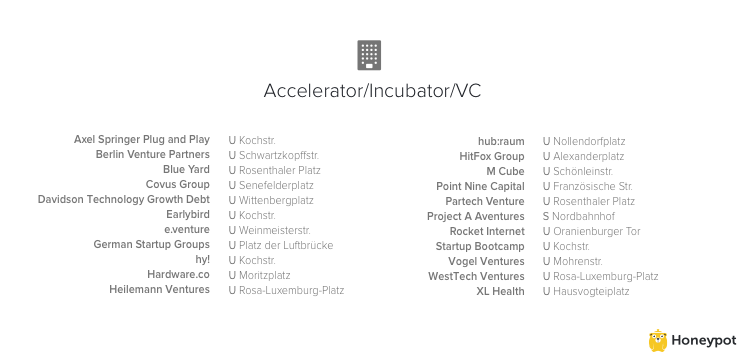
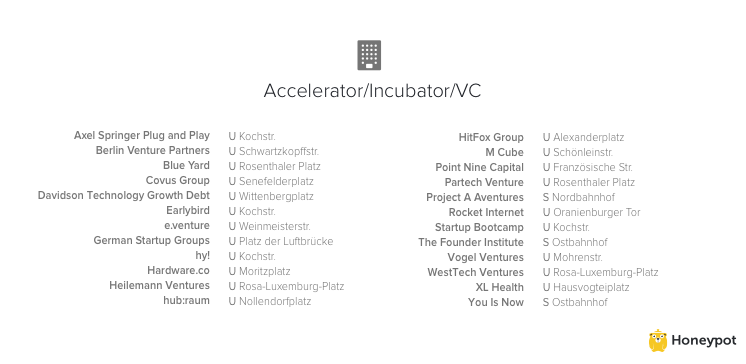
corrections to ubahn map from companies

Changed region(s): [[0.555, 0.3626, 0.8941, 0.8462], [0.0308, 0.3626, 0.4625, 0.8462]]

diff --git a/_posts/2016-03-09-berlin-startups.md b/_posts/2016-03-09-berlin-startups.md
@@ -12,7 +12,7 @@ importance: 2
 
 Did you know there are over 1800 active startup companies operating in Berlin? To discover more about them, we took a 10% sample sorted them by industry and mapped them by U-bahn station. The following post details our findings. 
 
-[![berlin's startups](/assets/images/startupmap.png)](/assets/images/startup@2.png)
+[![berlin's startups](/assets/images/startupsmall2.png)](/assets/images/startup2.png)
 
 ## East Side verus West Side
 
@@ -46,7 +46,7 @@ Many point to the legacy of [HitFox Group][8]{:target="_blank"}, the company bui
 
 Berlin has consolidated its position as Europe’s [AdTech hub][4]{:target="_blank"}. According to eMarketer, mobile ad spend will [top $100 billion in 2016][20]{:target="_blank"}. Despite this, competition in the city is fierce and Berlin’s AdTech industry will likely see [consolidation in 2016][21]{:target="_blank"}, similar to what has been seen internationally.
 
-![AdTech](/assets/images/adtech.png) 
+![AdTech](/assets/images/adtech2.png) 
 
 ## FinTech
 
@@ -75,9 +75,9 @@ Sometimes referred to as MarTech, this industry in its broadest sense can also e
 
 Our definition focuses on marketing operations, including areas such as cross channel marketing, content solutions, email marketing and lead generation tools.
 
-According to Venture Beat, marketing technology startups have secured [$134 billion in venture funding][24]{:target="_blank"} in the last five years. Berlin has yet to produce a shining star in this industry. 
+According to Venture Beat, marketing technology startups have secured [$134 billion in venture funding][24]{:target="_blank"} in the last five years. [Zanox][44] is one of Berlin's most successful MarTech startups. Formed in 2000, the affiliate marketing superstar today has over 800 employees in 11 offices across the globe. 
 
-![marketing](/assets/images/marketing1.png)
+![marketing](/assets/images/marketing2.png)
 
 ## Other
 
@@ -93,11 +93,13 @@ Berlin is home to a number of high profile gaming startups, such as Wooga, which
 
 ![berlin's gaming startups](/assets/images/games.png) 
 
-![berlin's healthcare startups](/assets/images/health.png)
+![berlin's healthcare startups](/assets/images/4.png)
 
-![berlin's HR startups](/assets/images/hr.png) 
+![berlin's HR startups](/assets/images/3.png) 
 
-![berlin's startups](/assets/images/other.png) 
+![berlin's healthcare startups](/assets/images/music.png)
+
+![berlin's startups](/assets/images/other2.png) 
 
 ## Berlin’s venture capital firms, incubators and accelerators
 
@@ -119,9 +121,9 @@ Berlin’s low cost of living and creative culture has attracted national and in
 
 Well, the answer is anywhere along the U2 U-bahn line. A whopping 38% of Berlin's startups are along this line which runs from west to east across the city. At Rosa Luxemburg Platz alone, which lies close to the famous Silicon Allee, we counted 13 startups.  
 
-![ubahn](/assets/images/busiest.png)
+![ubahn](/assets/images/busyu.png)
 
-## If you would like to add your startup to the list, please send the name and closest ubahn to hello@honeypot.io. 
+
 
 ## How did we define each industry?
 
@@ -201,4 +203,4 @@ Well, the answer is anywhere along the U2 U-bahn line. A whopping 38% of Berlin'
 [41]: https://www.hubraum.com/locations/berlin
 [42]: http://www.axelspringerplugandplay.com/
 [43]: https://www.rocket-internet.com/
-
+[44]: https://www.zanox.com
